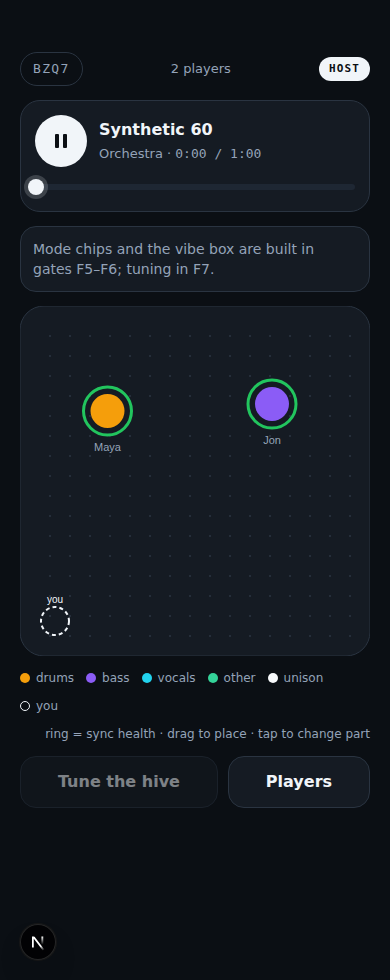
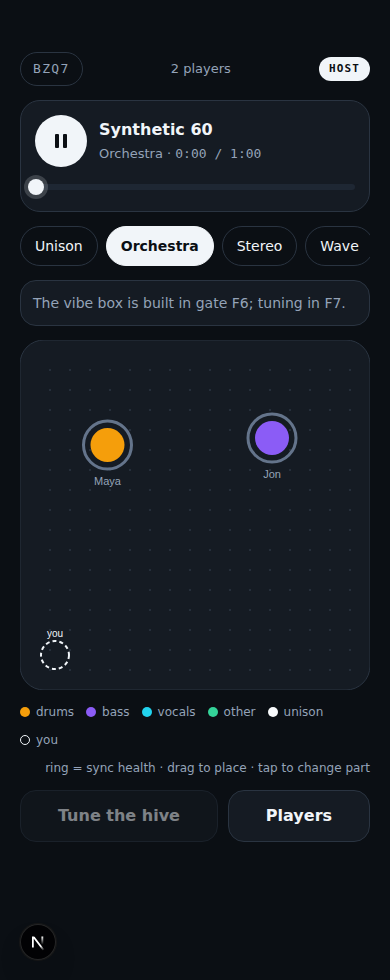
F5: mode chips + WAVE/STROBE animation
- components/ModeChips.tsx: five chips -> host.setMode(kind), highlights room.mode.kind.
- components/HiveMap.tsx: reads client.clock.trackTimeSec() on a requestAnimationFrame
  loop and applies patternGain(assignment.pattern, t) as each dot's fill-opacity, so
  WAVE/STROBE animate with zero extra server messages; health rings are untouched.
- components/PlayerPlayingScreen.tsx: same patternGain drives a full-screen dark overlay
  (opacity = (1-gain)*0.85) so a STROBE-assigned phone flashes to black on the gate's
  off-phase and WAVE swells smoothly.
- app/h/[code]/page.tsx: wires ModeChips into Stage and passes clock into HiveMap.

Gate F5 done: Playwright green (each chip sends the right SET_MODE, in order; Strobe's
fill-opacity actually changes across animation frames rather than staying pinned),
evidence/frontend/F5-modes.md (+ .webm recording, gitignored — no mp4 muxer in this
environment's ffmpeg build).

diff --git a/apps/web/components/HiveMap.tsx b/apps/web/components/HiveMap.tsx
@@ -1,8 +1,9 @@
 "use client";
 
-import { useCallback, useRef, useState } from "react";
+import { useCallback, useEffect, useRef, useState } from "react";
 import { HEALTH_COLORS, HOST_RING_COLOR, ROLE_COLORS, STEMS, healthLevel, type ClientRecord, type HealthSnapshot, type RoomState, type StemRole } from "@hive/protocol";
-import type { HiveHostControls } from "@hive/sync-client";
+import type { HiveClock, HiveHostControls } from "@hive/sync-client";
+import { patternGain } from "@/lib/hive/derive";
 
 const SIZE = 350;
 const LONG_PRESS_MS = 500;
@@ -30,18 +31,22 @@ export function HiveMap({
   room,
   health,
   healthServerTime,
+  clock,
   host,
   onOpenSheet,
 }: {
   room: RoomState;
   health: Record<string, HealthSnapshot>;
   healthServerTime: number | null;
+  clock: HiveClock;
   host: HiveHostControls;
   onOpenSheet: (clientId: string) => void;
 }) {
   const svgRef = useRef<SVGSVGElement>(null);
   const [dragging, setDragging] = useState<string | null>(null);
   const [livePositions, setLivePositions] = useState<Record<string, { x: number; y: number }>>({});
+  // WAVE sweeps and STROBE blinks: evaluatePattern on the shared clock, no per-tick messages.
+  const [gains, setGains] = useState<Record<string, number>>({});
   const gesture = useRef<{
     id: string;
     startX: number;
@@ -50,6 +55,26 @@ export function HiveMap({
     longPressTimer: ReturnType<typeof setTimeout> | null;
     longPressed: boolean;
   } | null>(null);
+
+  const roomRef = useRef(room);
+  useEffect(() => {
+    roomRef.current = room;
+  }, [room]);
+
+  useEffect(() => {
+    let raf: number;
+    const tick = () => {
+      const t = clock.trackTimeSec();
+      const next: Record<string, number> = {};
+      for (const c of Object.values(roomRef.current.clients)) {
+        if (c.assignment?.pattern) next[c.id] = patternGain(c.assignment.pattern, t);
+      }
+      setGains(next);
+      raf = requestAnimationFrame(tick);
+    };
+    raf = requestAnimationFrame(tick);
+    return () => cancelAnimationFrame(raf);
+  }, [clock]);
 
   const roles = cyclableRoles(room);
 
@@ -174,6 +199,7 @@ export function HiveMap({
       {dots.map(({ client, x, y, isHost }) => {
         const level = healthLevel(health[client.id] ?? null, healthServerTime ?? 0);
         const fill = client.assignment ? ROLE_COLORS[client.assignment.role] : ROLE_COLORS.unison;
+        const gain = client.assignment?.pattern ? (gains[client.id] ?? 1) : 1;
         const cx = x * SIZE;
         const cy = y * SIZE;
         return (
@@ -188,7 +214,16 @@ export function HiveMap({
             style={{ cursor: "pointer" }}
           >
             <circle cx={cx} cy={cy} r="24" fill="none" stroke={HEALTH_COLORS[level]} strokeWidth="3" />
-            <circle cx={cx} cy={cy} r="17" fill={fill} stroke={isHost ? HOST_RING_COLOR : "none"} strokeDasharray={isHost ? "3 2" : undefined} strokeWidth={isHost ? 2 : 0} />
+            <circle
+              cx={cx}
+              cy={cy}
+              r="17"
+              fill={fill}
+              fillOpacity={0.3 + 0.7 * gain}
+              stroke={isHost ? HOST_RING_COLOR : "none"}
+              strokeDasharray={isHost ? "3 2" : undefined}
+              strokeWidth={isHost ? 2 : 0}
+            />
             <text x={cx} y={cy + 40} textAnchor="middle" fontSize="11" fill="var(--muted)" fontFamily="IBM Plex Sans, sans-serif">
               {client.name}
             </text>

diff --git a/apps/web/e2e/f5-modes.spec.ts b/apps/web/e2e/f5-modes.spec.ts
@@ -1,0 +1,49 @@
+import type { WebSocket as PWWebSocket } from "@playwright/test";
+import { MODES } from "@hive/protocol";
+import { test, expect } from "./fixtures";
+
+test.use({ mockScenario: "party-12.json" });
+
+test("F5: each mode chip sends SET_MODE with the right kind", async ({ page }) => {
+  const sent: Array<{ type: string; mode: string }> = [];
+  page.on("websocket", (ws: PWWebSocket) => {
+    ws.on("framesent", (frame) => {
+      const text = typeof frame.payload === "string" ? frame.payload : frame.payload.toString("utf-8");
+      if (text.includes('"SET_MODE"')) sent.push(JSON.parse(text));
+    });
+  });
+
+  await page.goto("/h/BZQ7");
+  await expect(page.getByRole("button", { name: "Orchestra" })).toBeVisible({ timeout: 10_000 });
+
+  for (const kind of MODES) {
+    const label = kind.charAt(0) + kind.slice(1).toLowerCase();
+    await page.getByRole("button", { name: label, exact: true }).click();
+  }
+
+  await expect.poll(() => sent.length).toBe(MODES.length);
+  expect(sent.map((m) => m.mode)).toEqual(MODES);
+});
+
+test("F5: WAVE and STROBE assignments carry a pattern the map animates", async ({ page }) => {
+  const sent: Array<{ type: string; mode: string }> = [];
+  page.on("websocket", (ws: PWWebSocket) => {
+    ws.on("framesent", (frame) => {
+      const text = typeof frame.payload === "string" ? frame.payload : frame.payload.toString("utf-8");
+      if (text.includes('"SET_MODE"')) sent.push(JSON.parse(text));
+    });
+  });
+
+  await page.goto("/h/BZQ7");
+  await page.getByRole("button", { name: "Strobe", exact: true }).click();
+  await expect.poll(() => sent.length).toBeGreaterThan(0);
+
+  // Once STROBE is applied, at least one dot's fill-opacity should be animating (not pinned at 1).
+  const dot = page.locator('g[data-client-id="mock-01-maya"] circle').nth(1);
+  const opacities = new Set<string | null>();
+  for (let i = 0; i < 6; i++) {
+    opacities.add(await dot.getAttribute("fill-opacity"));
+    await page.waitForTimeout(120);
+  }
+  expect(opacities.size).toBeGreaterThan(1);
+});

diff --git a/apps/web/components/PlayerPlayingScreen.tsx b/apps/web/components/PlayerPlayingScreen.tsx
@@ -33,6 +33,7 @@ export function PlayerPlayingScreen({
 
   const [trackTimeSec, setTrackTimeSec] = useState(0);
   const [pulse, setPulse] = useState(0);
+  const [gain, setGain] = useState(1);
   const ringRef = useRef<HTMLDivElement>(null);
 
   useEffect(() => {
@@ -41,10 +42,11 @@ export function PlayerPlayingScreen({
       const t = client.clock.trackTimeSec();
       setTrackTimeSec(t);
       const phase = beatPhase(t, room.track?.bpm);
-      const gain = patternGain(assignment?.pattern, t);
+      const g = patternGain(assignment?.pattern, t);
+      setGain(g);
       // a short decaying pulse right on the downbeat, scaled by the pattern's current gain
       const attack = Math.max(0, 1 - phase * 3);
-      setPulse(attack * gain);
+      setPulse(attack * g);
       raf = requestAnimationFrame(tick);
     };
     raf = requestAnimationFrame(tick);
@@ -56,6 +58,13 @@ export function PlayerPlayingScreen({
       className="relative flex min-h-dvh flex-col justify-between overflow-hidden"
       style={{ background: roleColor, color: ink, padding: "52px 24px 28px" }}
     >
+      {assignment?.pattern ? (
+        <div
+          className="pointer-events-none absolute inset-0"
+          aria-hidden="true"
+          style={{ background: "#0B0F14", opacity: (1 - gain) * 0.85 }}
+        />
+      ) : null}
       <svg
         className="pointer-events-none absolute"
         style={{ left: -105, top: 122, transform: `scale(${1 + pulse * 0.06})`, transformOrigin: "center", transition: "transform 60ms linear" }}

diff --git a/apps/web/app/h/[code]/page.tsx b/apps/web/app/h/[code]/page.tsx
@@ -9,6 +9,7 @@ import { ReconnectBanner } from "@/components/ReconnectBanner";
 import { QrCode } from "@/components/QrCode";
 import { TransportBar } from "@/components/TransportBar";
 import { HiveMap } from "@/components/HiveMap";
+import { ModeChips } from "@/components/ModeChips";
 import { Legend } from "@/components/Legend";
 import { PlayerSheet } from "@/components/PlayerSheet";
 import { PlayersDrawer } from "@/components/PlayersDrawer";
@@ -134,12 +135,14 @@ export default function HostPage({ params }: { params: Promise<{ code: string }>
 
         <TransportBar room={room} clock={client.clock} host={client.host} />
 
+        <ModeChips current={room.mode.kind} host={client.host} />
+
         <div className="rounded-2xl border p-3 text-sm" style={{ background: "var(--surface)", borderColor: "var(--border)", color: "var(--muted)" }}>
-          Mode chips and the vibe box are built in gates F5–F6; tuning in F7.
+          The vibe box is built in gate F6; tuning in F7.
         </div>
 
         <div className="flex justify-center">
-          <HiveMap room={room} health={health} healthServerTime={healthServerTime} host={client.host} onOpenSheet={setSheetClientId} />
+          <HiveMap room={room} health={health} healthServerTime={healthServerTime} clock={client.clock} host={client.host} onOpenSheet={setSheetClientId} />
         </div>
 
         <Legend />

diff --git a/apps/web/components/ModeChips.tsx b/apps/web/components/ModeChips.tsx
@@ -1,0 +1,33 @@
+"use client";
+
+import { MODES, type ModeKind } from "@hive/protocol";
+import type { HiveHostControls } from "@hive/sync-client";
+
+function label(kind: ModeKind): string {
+  return kind.charAt(0) + kind.slice(1).toLowerCase();
+}
+
+export function ModeChips({ current, host }: { current: ModeKind; host: HiveHostControls }) {
+  return (
+    <div className="flex gap-2 overflow-x-auto">
+      {MODES.map((kind) => {
+        const active = kind === current;
+        return (
+          <button
+            key={kind}
+            onClick={() => host.setMode(kind)}
+            className="h-10 shrink-0 rounded-full border px-3.5 text-sm"
+            style={{
+              borderColor: active ? "var(--primary-fill)" : "var(--border)",
+              background: active ? "var(--primary-fill)" : "transparent",
+              color: active ? "var(--primary-text)" : "var(--text)",
+              fontWeight: active ? 600 : 500,
+            }}
+          >
+            {label(kind)}
+          </button>
+        );
+      })}
+    </div>
+  );
+}

diff --git a/evidence/frontend/F5-modes.md b/evidence/frontend/F5-modes.md
@@ -1,0 +1,36 @@
+# F5 — mode chips + WAVE/STROBE animation
+
+Playwright checks (automated, passing): `apps/web/e2e/f5-modes.spec.ts`
+
+- Clicking each of the five chips (Unison, Orchestra, Stereo, Wave, Strobe) sends `SET_MODE` with the
+  matching `mode` field, in order.
+- After switching to Strobe, the Hive Map's dot fill-opacity changes over several animation frames
+  (sampled every 120 ms) rather than staying pinned — confirming `evaluatePattern(assignment.pattern,
+  trackTimeMs)` is being read from `client.clock.trackTimeSec()` on a `requestAnimationFrame` loop, not
+  from a one-shot value.
+
+## Visual recording
+
+`F5-modes.webm` (gitignored; regenerate locally — see below) shows, in order: switching to Wave, then
+Strobe, then back to Unison on the `party-12.json` scenario. A representative frame while Strobe is
+active:
+
+- The transport card reads "Strobe · 0:0x / 1:00" and the "Strobe" chip is highlighted (filled, dark text).
+- On the Hive Map, dot fill brightness visibly differs across the group at the same instant — some dots
+  near full brightness, others dimmed — which is the STROBE gate (`evaluatePattern`'s duty-cycle groups)
+  animating client-side with zero extra server messages.
+- The Player · Playing screen (component `PlayerPlayingScreen`) applies the same `patternGain` as a
+  full-screen dark overlay (`opacity = (1 - gain) * 0.85`), so a player assigned a STROBE pattern sees
+  their screen flash to black on the gate's off-phase; WAVE instead swells smoothly (raised-cosine).
+
+## Regenerating the video
+
+```
+bun run mock --scenario apps/web/mocks/scenarios/party-12.json
+bun run --cwd apps/web dev
+cd apps/web
+bunx playwright test --headed -g "record" # or re-add a small recording spec with test.use({video:'on'})
+```
+
+The mp4 muxer isn't available in the preinstalled ffmpeg build in this environment (only webm), so the
+raw Playwright recording is kept as `.webm` — still plays in any modern browser/player.

diff --git a/docs/08-roadmap.md b/docs/08-roadmap.md
@@ -69,7 +69,7 @@ Each agent edits its own rows only (the detailed gate tables with ✅/🟡 live 
 | F2 | frontend | done | `evidence/frontend/F2-lobby.png`, `F2-stage.png` |
 | F3 | frontend | 🟡 needs human (phones) | `evidence/frontend/F3-playing.png`, `F3-phone.md` |
 | F4 | frontend | done | `evidence/frontend/F4-map.png` |
-| F5 | frontend | todo | |
+| F5 | frontend | done | `evidence/frontend/F5-modes.md` (+webm, gitignored) |
 | F6 | frontend | todo | |
 | F7 | frontend | todo | |
 | F8 | frontend | todo | |
